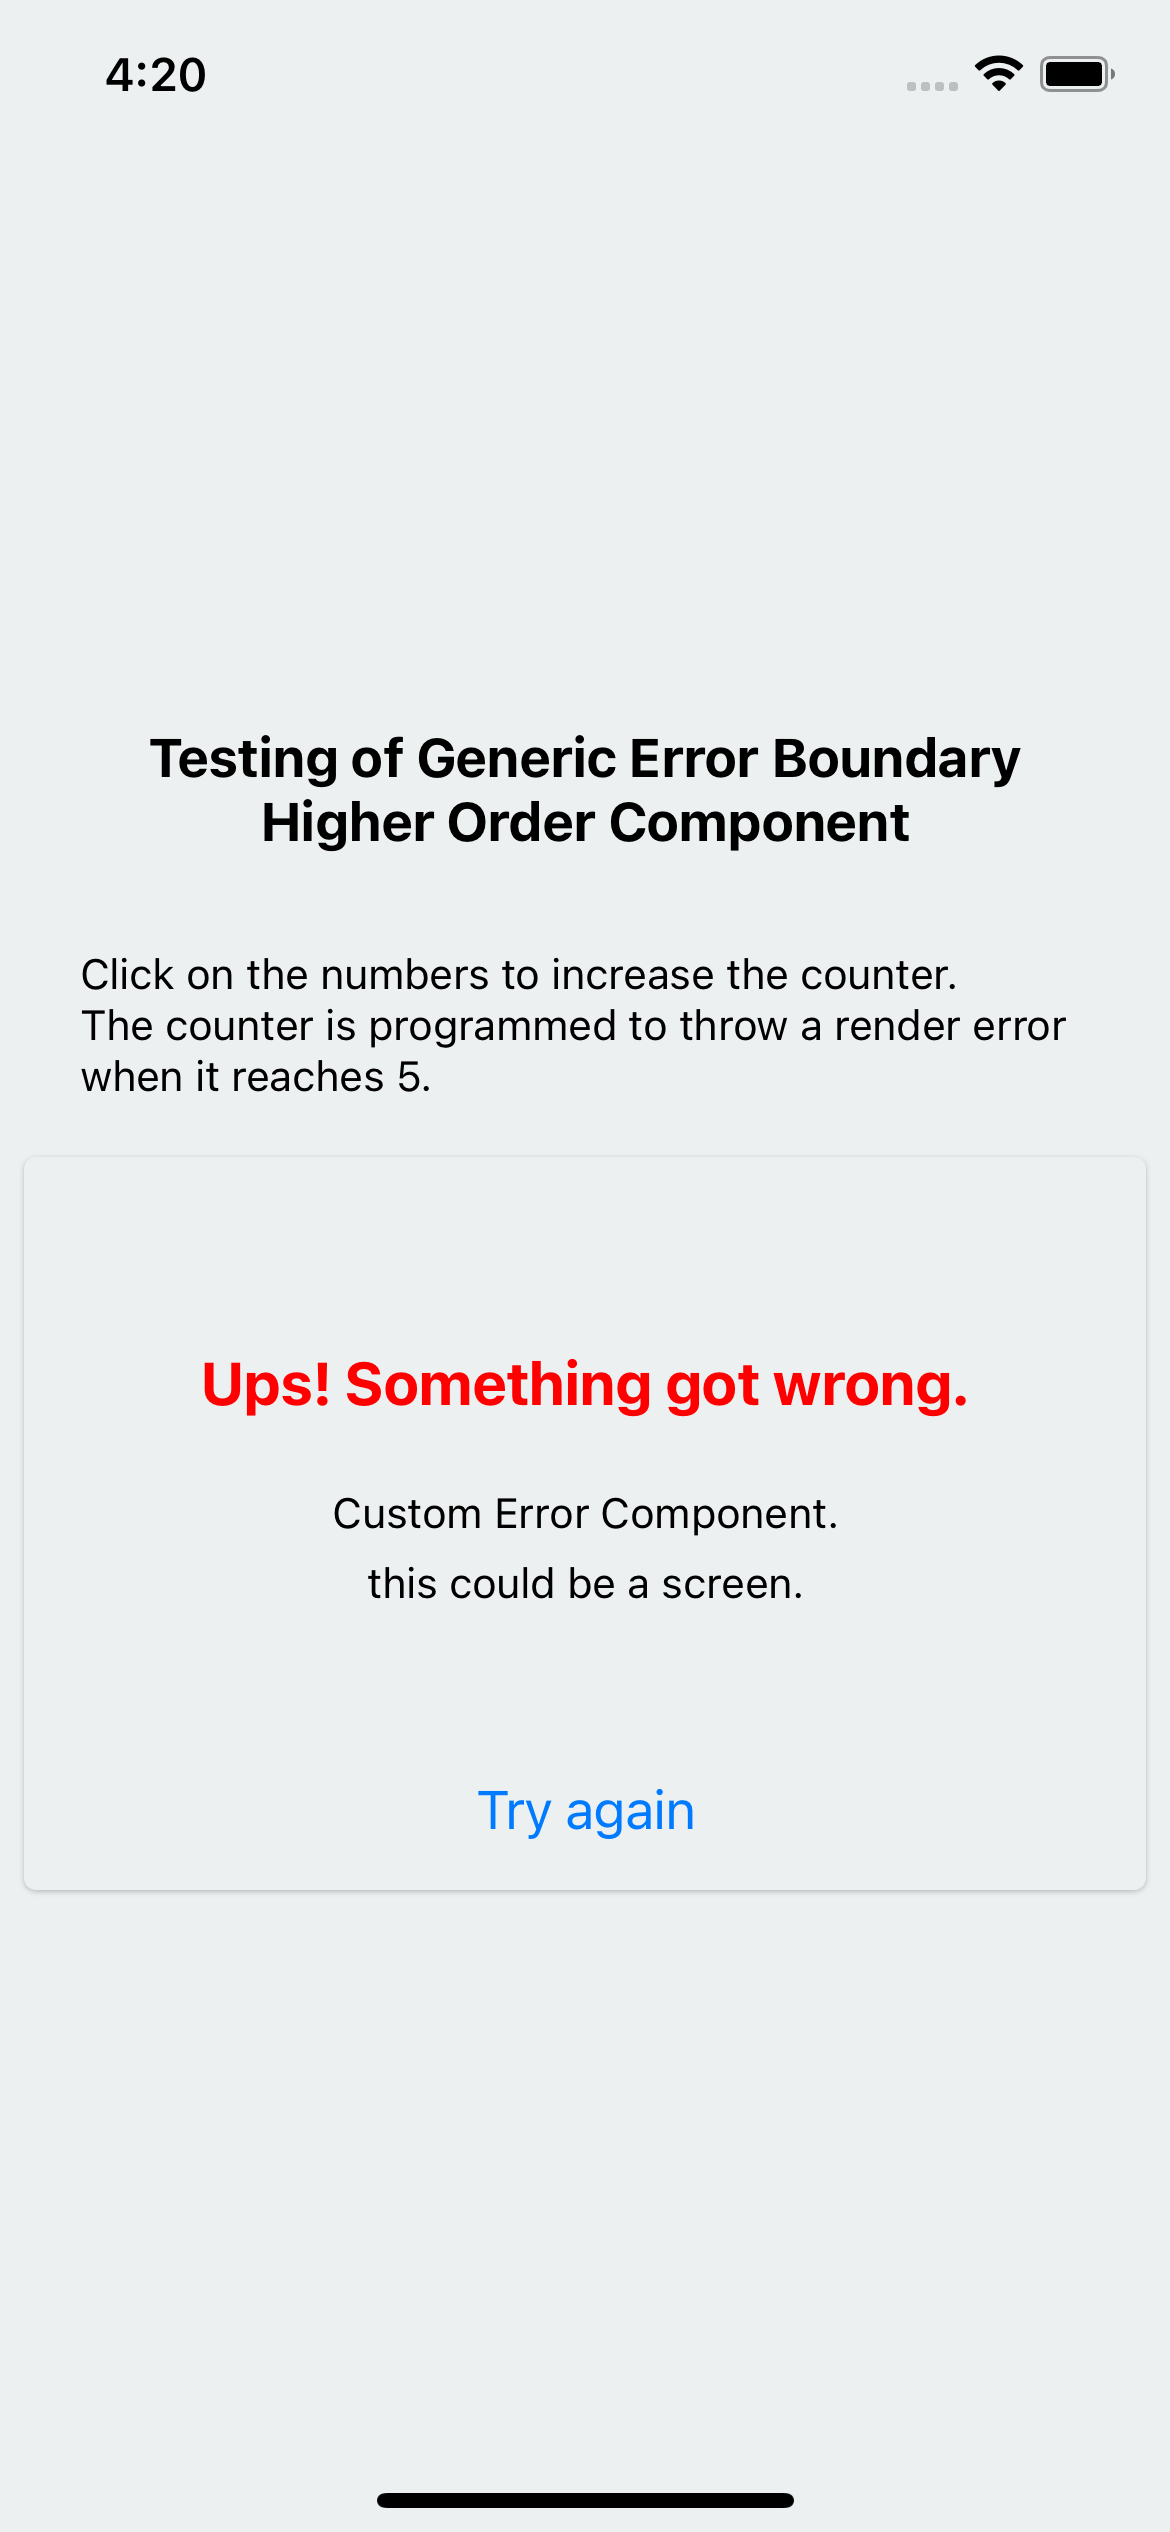
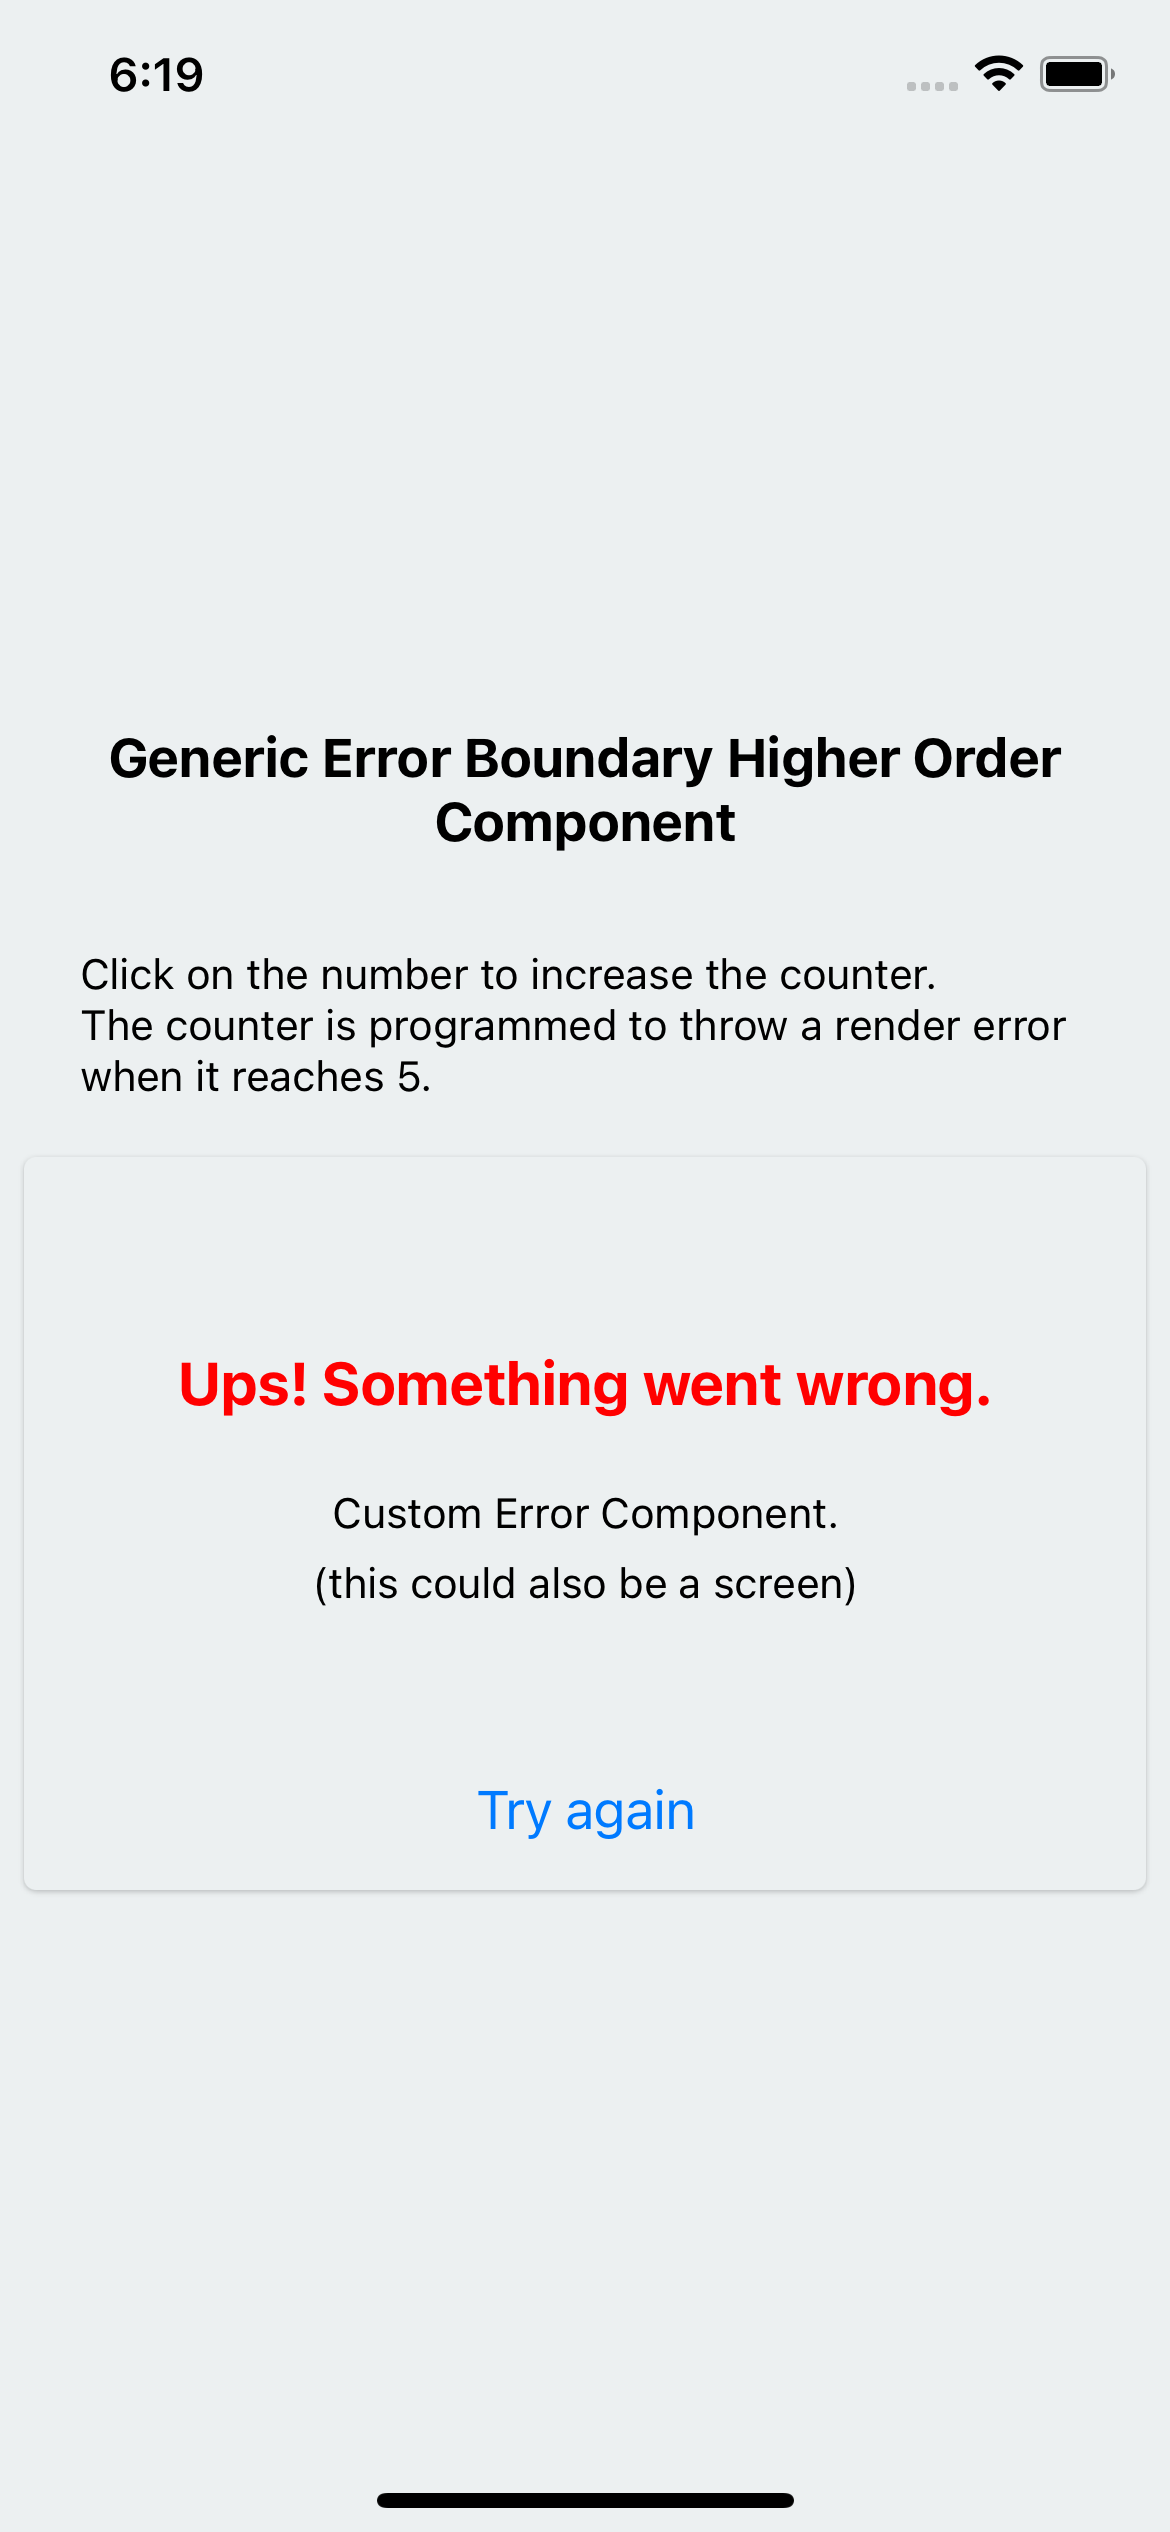
Updated Readme

diff --git a/App.js b/App.js
@@ -28,20 +28,16 @@ const styles = StyleSheet.create({
     marginHorizontal: '5%',
     marginVertical: '2%',
   },
-  descriptionText: {
-    textAlign: 'center',
-    marginVertical: 10,
-  },
 });
 
 const App = () => (
     <View style={styles.container}>
       <Text style={styles.title}>
-        Testing of Generic Error Boundary Higher Order Component
+        Generic Error Boundary Higher Order Component
       </Text>
       <View style={styles.textContainer}>
         <Text>
-          Click on the numbers to increase the counter.
+          Click on the number to increase the counter.
         </Text>
         <Text>
           The counter is programmed to throw a render error when it reaches 5.

diff --git a/src/components/CustomErrorComponent.js b/src/components/CustomErrorComponent.js
@@ -28,7 +28,7 @@ const CustomErrorScreen = () => (
       Custom Error Component.
     </Text>
     <Text style={styles.description}>
-      this could be a screen.
+      (this could also be a screen)
     </Text>
   </View>
 );

diff --git a/src/components/BuggyCounter.js b/src/components/BuggyCounter.js
@@ -18,7 +18,7 @@ const styles = StyleSheet.create({
   number: {
     margin: 24,
     marginTop: 0,
-    fontSize: 14,
+    fontSize: 25,
     fontWeight: 'bold',
     textAlign: 'center',
   },
